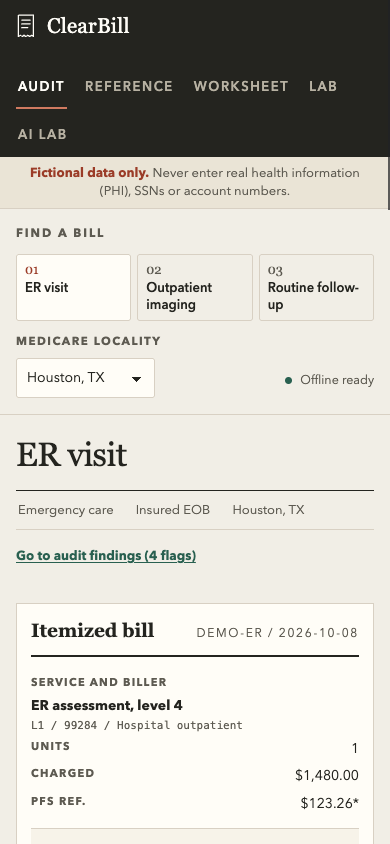
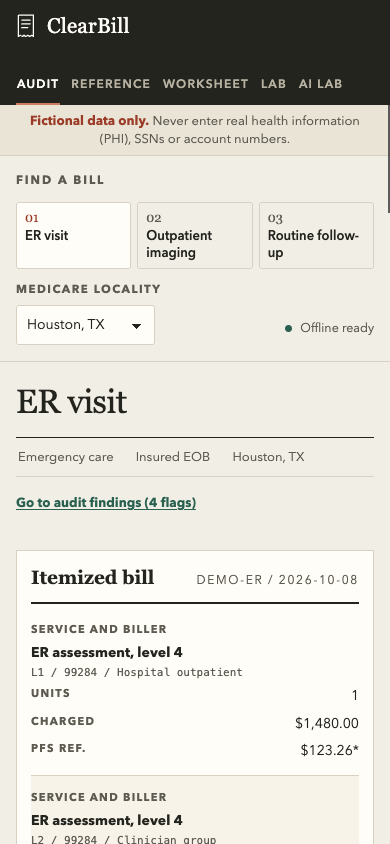
Compact mobile workbench navigation

diff --git a/styles.css b/styles.css
@@ -2120,11 +2120,13 @@ table.formula-table th {
   }
 
   .masthead nav {
-    gap: 2px 16px;
+    gap: 2px 10px;
   }
 
   .masthead nav button {
-    padding: 14px 2px 12px;
+    padding: 12px 1px 11px;
+    font-size: 12px;
+    letter-spacing: 0.1em;
   }
 
   .case-rail {

diff --git a/README.md b/README.md
@@ -65,7 +65,7 @@ node scripts/lab-check.mjs
 node scripts/ai-lab-audit.mjs
 ```
 
-The Node suite (1,300 tests) checks independently calculated references, published unit limits, threshold and time boundaries, exact-cent reconciliation, bounded input perturbations, both export formats and authenticated decryption. For the sensitivity lab it adds pure-JS SHA-256 vectors and seeded parity against `node:crypto` and Web Crypto, locality-by-setting formula parity across the whole catalog, boundary sweeps, fictional case replay counts, formula-safe CSV layout, digest parity across JSON, CSV and Markdown, tamper rejection, and hostile bookmark inputs. For the reasoning lab it adds deterministic-replay and canonical-serialization checks, exact markup and z-score bands, every coverage-tree outcome, plan ordering, recoverable-range caps, simulator cents, waterfall continuity, slider normalization, PII scrub patterns, endpoint gating and canonical-safe assist payloads.
+The Node suite (1,301 tests) checks independently calculated references, published unit limits, threshold and time boundaries, exact-cent reconciliation, bounded input perturbations, both export formats and authenticated decryption. For the sensitivity lab it adds pure-JS SHA-256 vectors and seeded parity against `node:crypto` and Web Crypto, locality-by-setting formula parity across the whole catalog, boundary sweeps, fictional case replay counts, formula-safe CSV layout, digest parity across JSON, CSV and Markdown, tamper rejection, and hostile bookmark inputs. For the reasoning lab it adds deterministic-replay and canonical-serialization checks, exact markup and z-score bands, every coverage-tree outcome, plan ordering, recoverable-range caps, simulator cents, waterfall continuity, slider normalization, PII scrub patterns, endpoint gating and canonical-safe assist payloads.
 
 All Chrome checks use a throwaway headless profile with no logged-in accounts. Set `CHROME_PATH` if the Chrome executable differs. `test:browser` (22 checks) tests both layouts, in-browser imports and exports, service worker control, an offline reload and actual Letter PDF page counts for both worksheet languages. It captures `docs/desktop.png`, `docs/dispute.png` and `docs/mobile.png`. `lab-check` (18 checks) exercises real pointer clicks on the lab controls and SVG markers, digest verify and tamper actions, the 19/19 in-page self-tests, English and Spanish, full `#cbl=` bookmark restore across a reload, and hostile-fragment rejection, with zero console errors, page errors, external requests and horizontal overflow. `ai-lab-audit` (16 checks) drives the reasoning panel at 1440x900 and 390x844 with real pointer clicks: trace stages, slider math and waterfall bars, the digested letter download, the gated and PII-scrubbed assist payload export, the in-page self-tests, a fictional edit flowing into re-analysis, routed downloads, and zero console errors, page errors, external requests and horizontal overflow. It captures `docs/reasoning.png`.
 
@@ -75,4 +75,4 @@ The synthetic checks demonstrate expected behavior on known inputs, not precisio
 
 ClearBill existed before this event. The audit engine, Medicare reference view, bilingual worksheet, sealed summary links, exports, offline service worker, sensitivity lab and the original test and browser harnesses were built earlier.
 
-Built during the event window: the AI reasoning lab (`src/ai-appeal-reasoning.js`), its navigation view and panel in `index.html`, its styles in `styles.css`, `tests/ai-appeal-reasoning.test.mjs`, `scripts/ai-lab-audit.mjs`, the optional local sender `scripts/llm-polish.mjs`, the asset allowlist entry in `scripts/serve.mjs`, the service worker cache lineage through `clearbill-2026q4-v6`, `docs/reasoning.png` and this documentation. A later pass in the same window restyled the AI lab: a summary strip, a numbered four-stage timeline with answer, band and confidence pills and per-line markup gauges, a side-by-side simulator with a projected patient share callout and a waterfall with round dollar gridlines, a paper-style letter with a Print letter button, and a styled payload preview. A post-restyle correction pass then limited modifier 91 repeat evidence to laboratory test codes, which changed the blood-collection code 36415 case in `src/engine.js`; made the recoverable range overlap-aware; changed the ER high end from $177.18 to $163.00, the simulator waterfall, the letter ruleset line and the letter digest; and bumped the ruleset to `clearbill-2026q4-v2`.
+Built during the event window: the AI reasoning lab (`src/ai-appeal-reasoning.js`), its navigation view and panel in `index.html`, its styles in `styles.css`, `tests/ai-appeal-reasoning.test.mjs`, `scripts/ai-lab-audit.mjs`, the optional local sender `scripts/llm-polish.mjs`, the asset allowlist entry in `scripts/serve.mjs`, the service worker cache lineage through `clearbill-2026q4-v6`, `docs/reasoning.png` and this documentation. A later pass in the same window restyled the AI lab: a summary strip, a numbered four-stage timeline with answer, band and confidence pills and per-line markup gauges, a side-by-side simulator with a projected patient share callout and a waterfall with round dollar gridlines, a paper-style letter with a Print letter button, and a styled payload preview. A post-restyle correction pass then limited modifier 91 repeat evidence to laboratory test codes, which changed the blood-collection code 36415 case in `src/engine.js`; made the recoverable range overlap-aware; changed the ER high end from `$177.18` to `$163.00`, the simulator waterfall, the letter ruleset line and the letter digest; and bumped the ruleset to `clearbill-2026q4-v2`.
